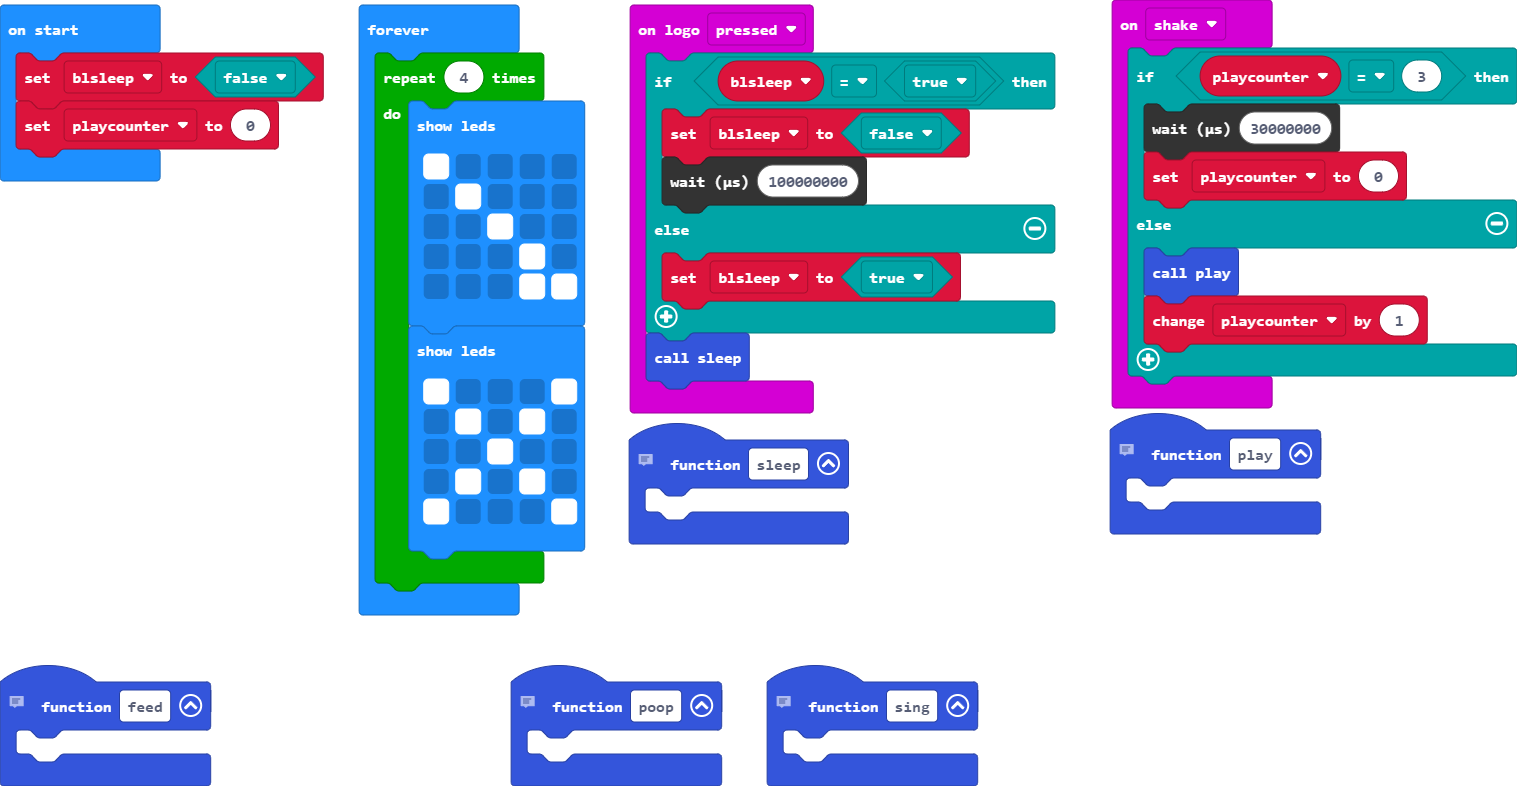
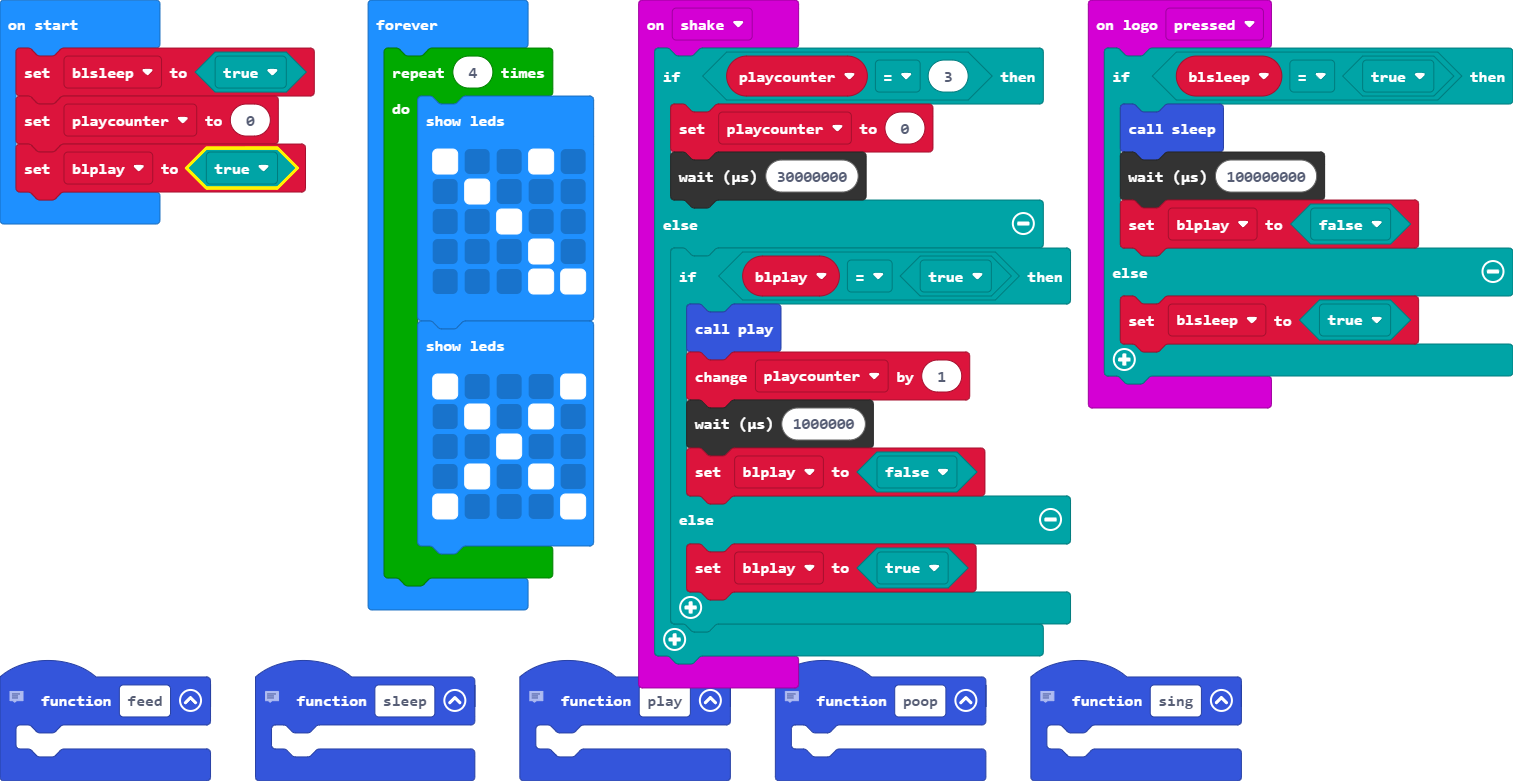
update variable default value and spam prevent delay for (play)

diff --git a/main.ts b/main.ts
@@ -40,30 +40,38 @@ function feed () {
 }
 input.onGesture(Gesture.Shake, function () {
     if (playcounter == 3) {
-        control.waitMicros(30000000)
         playcounter = 0
+        control.waitMicros(30000000)
     } else {
-        play()
-        playcounter += 1
+        if (blplay == true) {
+            play()
+            playcounter += 1
+            control.waitMicros(1000000)
+            blplay = false
+        } else {
+            blplay = true
+        }
     }
 })
 input.onLogoEvent(TouchButtonEvent.Pressed, function () {
     if (blsleep == true) {
-        blsleep = false
+        sleep()
         control.waitMicros(100000000)
+        blplay = false
     } else {
         blsleep = true
     }
-    sleep()
 })
+let blplay = false
 let playcounter = 0
 let blsleep = false
-blsleep = false
+blsleep = true
 playcounter = 0
+blplay = true
 basic.forever(function () {
     for (let index = 0; index < 4; index++) {
         basic.showLeds(`
-            # . . . .
+            # . . # .
             . # . . .
             . . # . .
             . . . # .

diff --git a/main.py b/main.py
@@ -1,3 +1,4 @@
+
 # bao
 def poop():
     pass
@@ -9,13 +10,7 @@ def play():
     pass
 # sleep
 def sleep():
-    basic.show_leds("""
-        . . # # #
-                # # # # .
-                # # # # .
-                # # # # .
-                # # . . .
-    """)
+    pass
 # emotions animation (state)
 # def happy():
 # display.show_leds("""
@@ -43,18 +38,18 @@ def feed():
 def on_gesture_shake():
     global playcounter
     if playcounter == 3:
-        control.wait_micros(30000000)
         playcounter = 0
+        control.wait_micros(30000000)
     else:
         play()
-        playcounter +=1
+        playcounter += 1
 input.on_gesture(Gesture.SHAKE, on_gesture_shake)
 
 def on_logo_pressed():
     global blsleep
     if blsleep == True:
-        blsleep = False
         control.wait_micros(100000000)
+        blsleep = False
     else:
         blsleep = True
     sleep()
